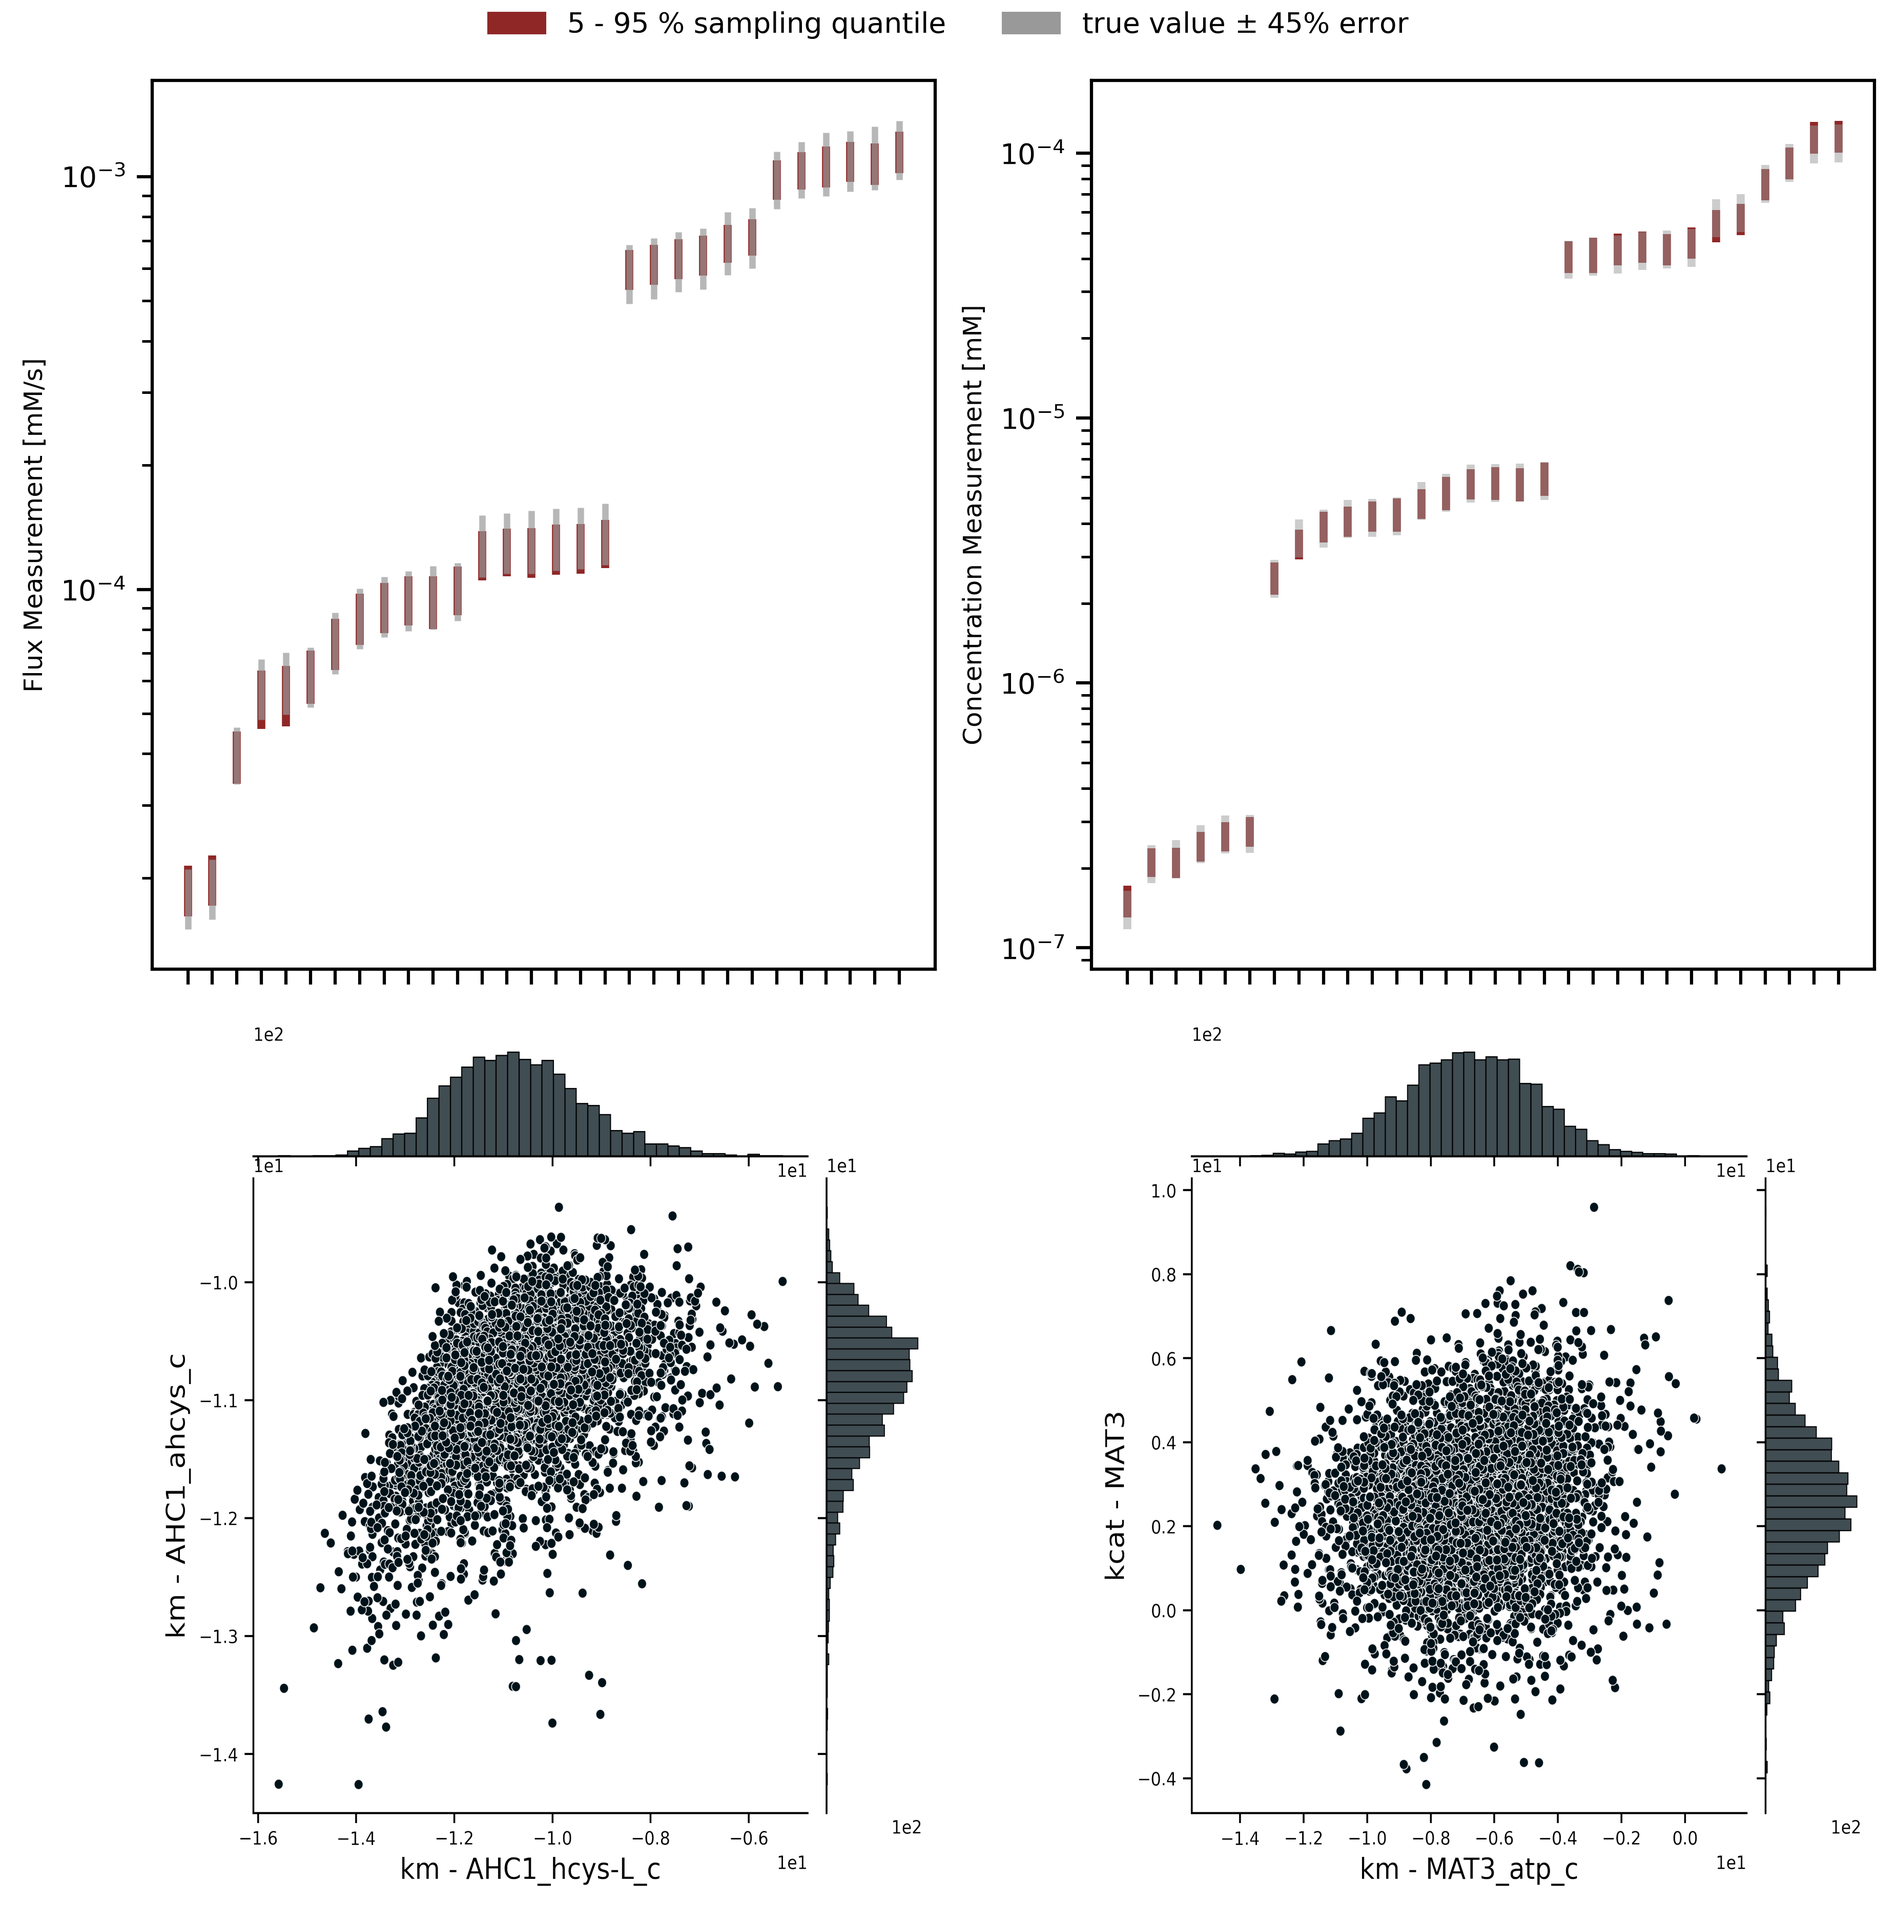
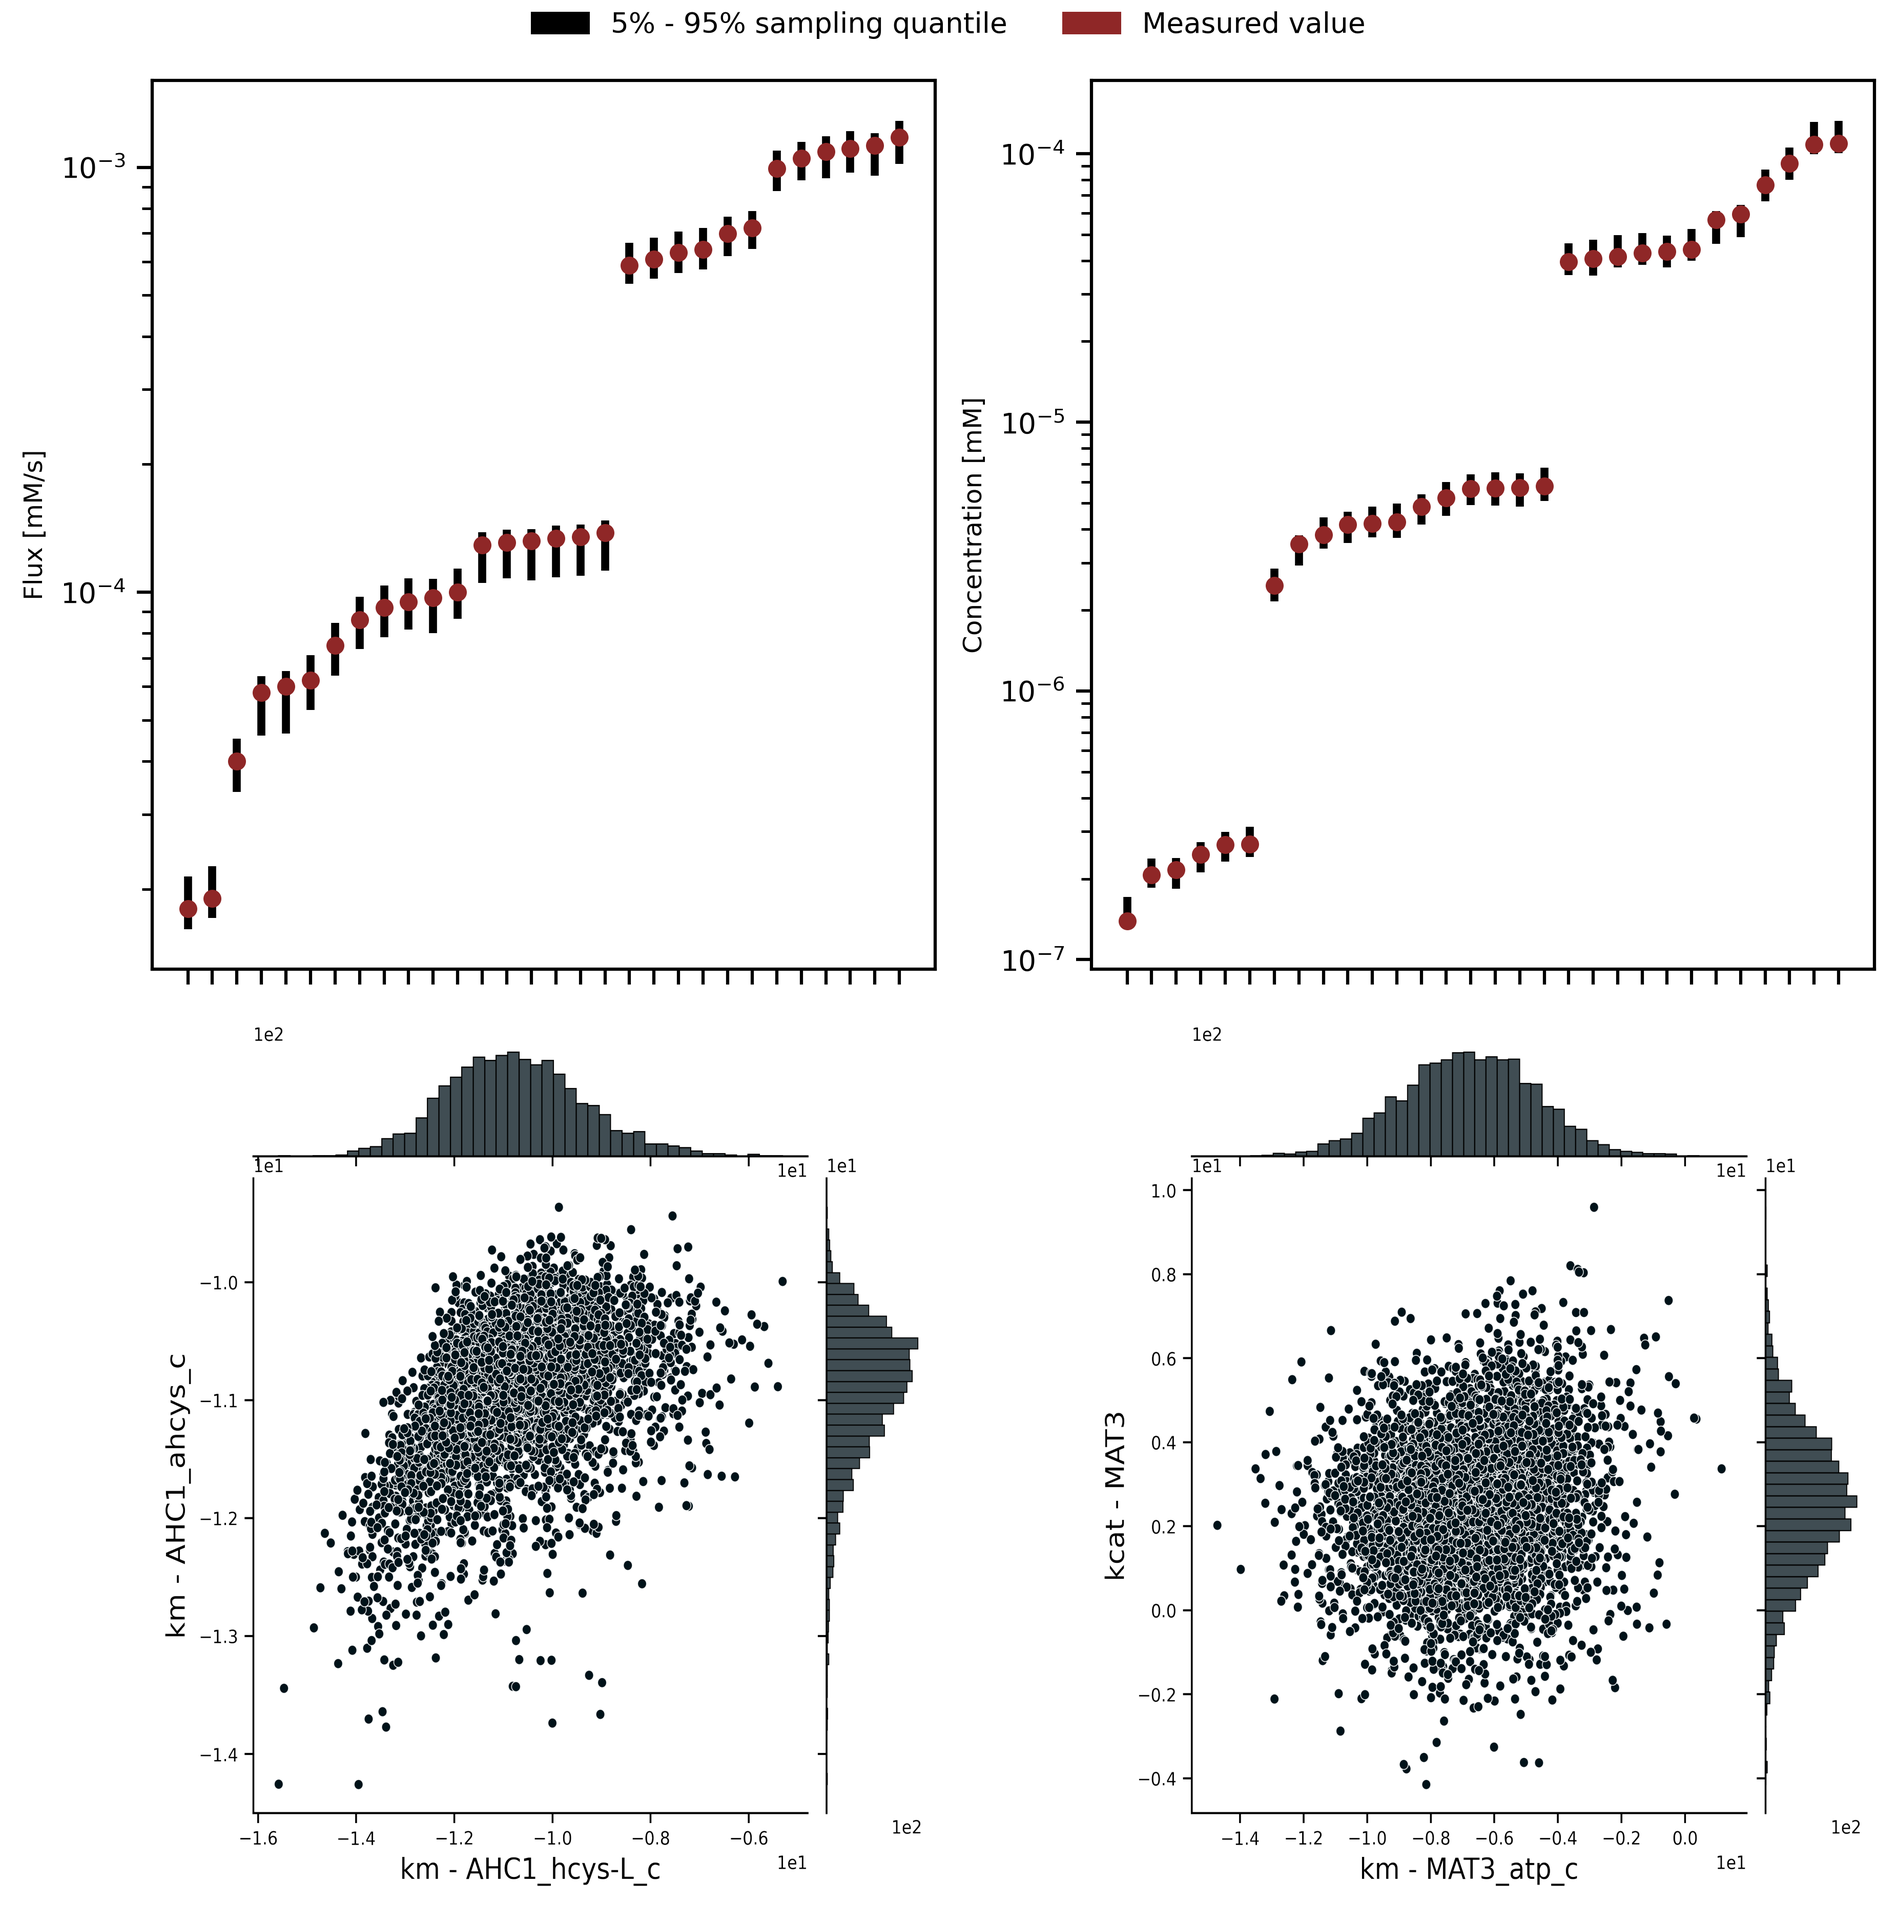
Update posterior plot

diff --git a/plot_figure_2.py b/plot_figure_2.py
@@ -1,4 +1,3 @@
-import builtins
 from pathlib import Path
 import tempfile
 import shutil
@@ -10,7 +9,6 @@ import matplotlib.patches as mpatches
 import matplotlib.image as mpimg
 import numpy as np
 import pandas as pd
-import arviz as az
 
 from maud.loading_maud_inputs import load_maud_input
 from maud.getting_idatas import get_idata
@@ -19,74 +17,78 @@ from maud.getting_idatas import get_idata
 MAUD_OUTPUT = Path.cwd() / "results" / "methionine"
 PLOT_OUTPUT = Path.cwd() / "figures" / "posterior.png"
 
-plt.style.use('ipynb')
+plt.style.use("ipynb")
 
-colour_scheme = {
-    "measurement": "0.6",
-    "sample": "#8F2727"
-}
+colour_scheme = {"measurement": "#8F2727", "sample": "black"}
+
 
 def plot_flux_forest(mi, idata_methionine, axes, flux_meas_df):
     """Return forest plot axes of fluxes."""
     flux_samples = idata_methionine.posterior["flux_train"].to_dataframe().reset_index()
     flux_samples["id"] = flux_samples["experiments"] + flux_samples["reactions"]
-    flux_samples = flux_samples[["id", "flux_train"]].groupby("id") \
-                               .quantile([0.05, 0.95]) \
-                               .reset_index() \
-                               .pivot(index="id", columns="level_1", values="flux_train")
+    flux_samples = (
+        flux_samples[["id", "flux_train"]]
+        .groupby("id")
+        .quantile([0.05, 0.95])
+        .reset_index()
+        .pivot(index="id", columns="level_1", values="flux_train")
+    )
     sorted_fluxes = list(flux_meas_df.sort_values("flux").index)
     for id, sample in flux_samples.reindex(sorted_fluxes).iterrows():
-        axes[0,0].vlines(
+        axes[0, 0].vlines(
             x=id,
             ymin=sample[0.05],
             ymax=sample[0.95],
             linewidth=2.5,
             color=colour_scheme["sample"],
+            zorder=0,
         )
-    for id, meas in flux_meas_df.reindex(sorted_fluxes).iterrows():
-        axes[0,0].vlines(
-            x=id,
-            ymin=meas["flux"]-1.65*meas["uncertainty"],
-            ymax=meas["flux"]+1.65*meas["uncertainty"],
-            linewidth=2,
-            color=colour_scheme["measurement"],
-            alpha=0.7,
-        )
-    axes[0,0].set_xticklabels([])
-    axes[0,0].set_ylabel("Flux Measurement [mM/s]")
+    f = flux_meas_df.reindex(sorted_fluxes).reset_index()
+    axes[0, 0].scatter(
+        f.index,
+        f["flux"],
+        marker="o",
+        color=colour_scheme["measurement"],
+    )
+    axes[0, 0].set_xticklabels([])
+    axes[0, 0].set_ylabel("Flux [mM/s]")
     # axes[0,0].set_xlabel("flux ID")
-    axes[0,0].set(yscale="log")
+    axes[0, 0].set(yscale="log")
     return axes
+
 
 def plot_conc_forest(mi, idata_methionine, axes, conc_meas_df):
     """Return forest plot axes of concentrations."""
     conc_samples = idata_methionine.posterior["conc_train"].to_dataframe().reset_index()
     conc_samples["id"] = conc_samples["experiments"] + conc_samples["mics"]
-    conc_samples = conc_samples[["id", "conc_train"]].groupby("id") \
-                               .quantile([0.05, 0.95]) \
-                               .reset_index() \
-                               .pivot(index="id", columns="level_1", values="conc_train")
+    conc_samples = (
+        conc_samples[["id", "conc_train"]]
+        .groupby("id")
+        .quantile([0.05, 0.95])
+        .reset_index()
+        .pivot(index="id", columns="level_1", values="conc_train")
+    )
     sorted_concs = list(conc_meas_df.sort_values("conc").index)
     for id, sample in conc_samples.reindex(sorted_concs).iterrows():
-        axes[0,1].vlines(
+        axes[0, 1].vlines(
             x=id,
             ymin=sample[0.05],
             ymax=sample[0.95],
             linewidth=2.5,
             color=colour_scheme["sample"],
+            zorder=0,
         )
-    for id, meas in conc_meas_df.reindex(sorted_concs).iterrows():
-        axes[0,1].vlines(
-            x=id,
-            ymin=np.exp(np.log(meas["conc"])-1.65*meas["uncertainty"]),
-            ymax=np.exp(np.log(meas["conc"])+1.65*meas["uncertainty"]),
-            linewidth=2.5,
-            color=colour_scheme["measurement"],
-            alpha=0.5,
-        )
-    axes[0,1].set_xticklabels([])
-    axes[0,1].set_ylabel("Concentration Measurement [mM]")
-    axes[0,1].set(yscale="log")
+
+    c = conc_meas_df.reindex(sorted_concs).reset_index()
+    axes[0, 1].scatter(
+        c.index,
+        c["conc"],
+        marker="o",
+        color=colour_scheme["measurement"],
+    )
+    axes[0, 1].set_xticklabels([])
+    axes[0, 1].set_ylabel("Concentration [mM]")
+    axes[0, 1].set(yscale="log")
     return axes
 
 
@@ -95,21 +97,21 @@ def plot_pair_corr(mi, infd):
 
     par_1 = "AHC1_hcys-L_c"
     par_2 = "AHC1_ahcys_c"
-    par_1_name = "km - "+par_1
-    par_2_name = "km - "+par_2
+    par_1_name = "km - " + par_1
+    par_2_name = "km - " + par_2
     km_df = infd.posterior["km"].to_dataframe().reset_index()
-    par_1_df = km_df.loc[km_df["kms"]==par_1].reset_index(drop=True)
-    par_2_df = km_df.loc[km_df["kms"]==par_2].reset_index(drop=True)
+    par_1_df = km_df.loc[km_df["kms"] == par_1].reset_index(drop=True)
+    par_2_df = km_df.loc[km_df["kms"] == par_2].reset_index(drop=True)
     pairplot_df = pd.DataFrame()
     pairplot_df[par_1_name] = par_1_df["km"]
     pairplot_df[par_2_name] = par_2_df["km"]
     pairplot_df = np.log(pairplot_df)
 
     g0 = sns.jointplot(
-        data=pairplot_df, 
-        x=par_1_name, 
+        data=pairplot_df,
+        x=par_1_name,
         y=par_2_name,
-        )
+    )
     return g0
 
 
@@ -118,67 +120,76 @@ def plot_pair_uncorr(mi, infd):
 
     par_1 = "MAT3_atp_c"
     par_2 = "MAT3"
-    par_1_name = "km - "+par_1
-    par_2_name = "kcat - "+par_2
+    par_1_name = "km - " + par_1
+    par_2_name = "kcat - " + par_2
     km_df = infd.posterior["km"].to_dataframe().reset_index()
-    par_1_df = km_df.loc[km_df["kms"]==par_1].reset_index(drop=True)
+    par_1_df = km_df.loc[km_df["kms"] == par_1].reset_index(drop=True)
     kcat_df = infd.posterior["kcat"].to_dataframe().reset_index()
-    par_2_df = kcat_df.loc[kcat_df["enzymes"]==par_2].reset_index(drop=True)
+    par_2_df = kcat_df.loc[kcat_df["enzymes"] == par_2].reset_index(drop=True)
     pairplot_df = pd.DataFrame()
     pairplot_df[par_1_name] = par_1_df["km"]
     pairplot_df[par_2_name] = par_2_df["kcat"]
     pairplot_df = np.log(pairplot_df)
 
-
     g0 = sns.jointplot(
-        data=pairplot_df, 
-        x=par_1_name, 
+        data=pairplot_df,
+        x=par_1_name,
         y=par_2_name,
-        )
+    )
     return g0
 
 
-
 def plot_figure():
-
     # Loading Data
     mi = load_maud_input(data_path=MAUD_OUTPUT / "user_input")
-    csvs_methionine = [MAUD_OUTPUT/ "samples" / file for file in os.listdir(MAUD_OUTPUT/ "samples") if ".csv" in file]
+    csvs_methionine = [
+        MAUD_OUTPUT / "samples" / file
+        for file in os.listdir(MAUD_OUTPUT / "samples")
+        if ".csv" in file
+    ]
     idata_methionine = get_idata(csvs_methionine, mi=mi, mode="train")
-    
-    flux_measurements = [{
-        "flux": meas.value, 
-        "uncertainty": meas.error_scale,
-        "reaction": meas.reaction, 
-        "experiment": meas.experiment
-    } 
-        for exp in mi.experiments 
-        for meas in exp.measurements 
-        if (meas.target_type=="flux") & (exp.is_train==True)   
+
+    flux_measurements = [
+        {
+            "flux": meas.value,
+            "uncertainty": meas.error_scale,
+            "reaction": meas.reaction,
+            "experiment": meas.experiment,
+        }
+        for exp in mi.experiments
+        for meas in exp.measurements
+        if (meas.target_type == "flux") & (exp.is_train == True)
     ]
     flux_meas_df = pd.DataFrame.from_records(flux_measurements)
-    flux_meas_df["id"] = flux_meas_df["experiment"]+flux_meas_df["reaction"]
+    flux_meas_df["id"] = flux_meas_df["experiment"] + flux_meas_df["reaction"]
     flux_meas_df = flux_meas_df.set_index("id")
 
-    conc_measurements = [{
-        "conc": meas.value, 
-        "uncertainty": meas.error_scale,
-        "metabolite": meas.metabolite, 
-        "compartment": meas.compartment,
-        "experiment": meas.experiment
-    } 
-        for exp in mi.experiments 
-        for meas in exp.measurements 
-        if (meas.target_type=="mic") & (exp.is_train==True)
+    conc_measurements = [
+        {
+            "conc": meas.value,
+            "uncertainty": meas.error_scale,
+            "metabolite": meas.metabolite,
+            "compartment": meas.compartment,
+            "experiment": meas.experiment,
+        }
+        for exp in mi.experiments
+        for meas in exp.measurements
+        if (meas.target_type == "mic") & (exp.is_train == True)
     ]
     conc_meas_df = pd.DataFrame.from_records(conc_measurements)
-    conc_meas_df["id"] = conc_meas_df["experiment"]+conc_meas_df["metabolite"]+"_"+conc_meas_df["compartment"]
+    conc_meas_df["id"] = (
+        conc_meas_df["experiment"]
+        + conc_meas_df["metabolite"]
+        + "_"
+        + conc_meas_df["compartment"]
+    )
     conc_meas_df = conc_meas_df.set_index("id")
 
-
     # calling plotting scripts
-    cm = 1/2.54  # centimeters in inches
-    sns.set_context("paper", rc={"font.size":14,"axes.titlesize":14,"axes.labelsize":14})
+    cm = 1 / 2.54  # centimeters in inches
+    sns.set_context(
+        "paper", rc={"font.size": 14, "axes.titlesize": 14, "axes.labelsize": 14}
+    )
 
     # Running scripts that generate their own figures
     tempdir = tempfile.mkdtemp(prefix="temp_figures-")
@@ -193,31 +204,37 @@ def plot_figure():
     g1.savefig(g1_file)
     plt.close(g1.fig)
 
-    sns.set_context("paper", rc={"font.size":8,"axes.titlesize":8,"axes.labelsize":8})
-    samples_legend = mpatches.Patch(color=colour_scheme["sample"], label="5 - 95 % sampling quantile")
-    measurements_legend = mpatches.Patch(color=colour_scheme["measurement"], label="true value $\pm$ $45\%$ error")
+    sns.set_context(
+        "paper", rc={"font.size": 8, "axes.titlesize": 8, "axes.labelsize": 8}
+    )
+    samples_legend = mpatches.Patch(
+        color=colour_scheme["sample"], label="5% - 95% sampling quantile"
+    )
+    measurements_legend = mpatches.Patch(
+        color=colour_scheme["measurement"], label="Measured value"
+    )
 
-    fig, axes = plt.subplots(2, 2, figsize = (21.0*cm, 21.0*cm))
+    fig, axes = plt.subplots(2, 2, figsize=(21.0 * cm, 21.0 * cm))
     axes = plot_flux_forest(mi, idata_methionine, axes, flux_meas_df)
     axes = plot_conc_forest(mi, idata_methionine, axes, conc_meas_df)
-    handles, labels = axes[0,0].get_legend_handles_labels()
-    fig.legend(handles=[samples_legend, measurements_legend], loc='upper center',
-                      ncol=2, borderaxespad=0.)
-    axes[1,0].set_axis_off()
-    axes[1,0].imshow(mpimg.imread(g0_file), aspect="auto")
-    axes[1,1].set_axis_off()
-    axes[1,1].imshow(mpimg.imread(g1_file), aspect="auto")
+    handles, labels = axes[0, 0].get_legend_handles_labels()
+    fig.legend(
+        handles=[samples_legend, measurements_legend],
+        loc="upper center",
+        ncol=2,
+        borderaxespad=0.0,
+    )
+    axes[1, 0].set_axis_off()
+    axes[1, 0].imshow(mpimg.imread(g0_file), aspect="auto")
+    axes[1, 1].set_axis_off()
+    axes[1, 1].imshow(mpimg.imread(g1_file), aspect="auto")
 
-    plt.figure(dpi = 300)
+    plt.figure(dpi=300)
     fig.tight_layout()
     fig.subplots_adjust(top=0.97)
     fig.savefig(PLOT_OUTPUT)
     shutil.rmtree(tempdir)
 
-    
 
 if __name__ == "__main__":
     plot_figure()
-
-
-    
